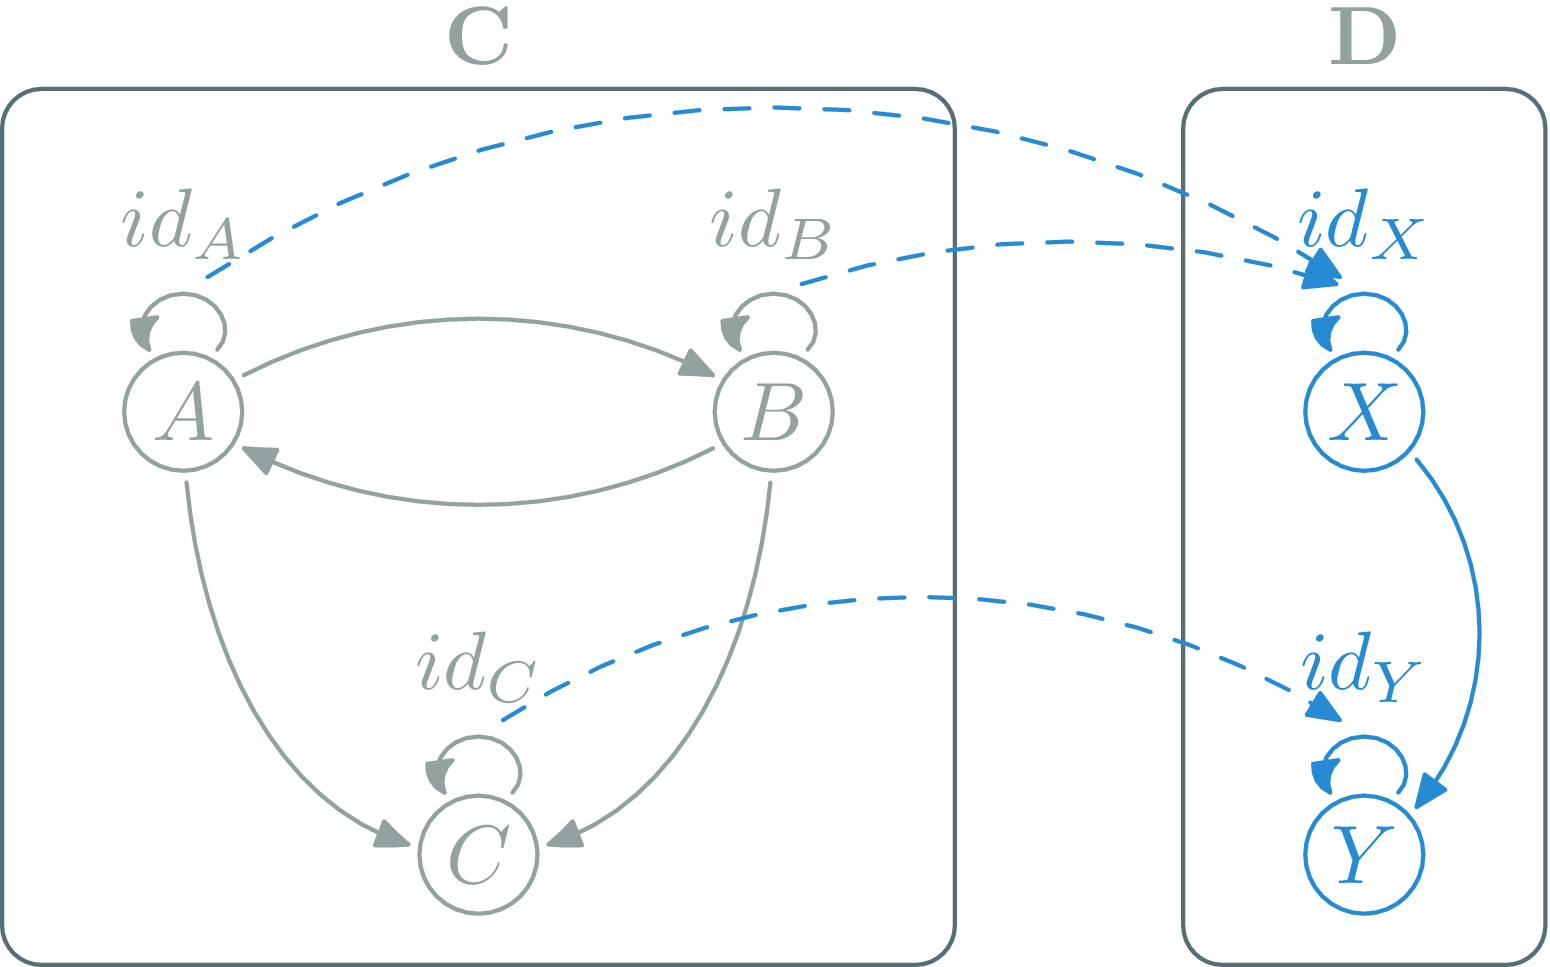
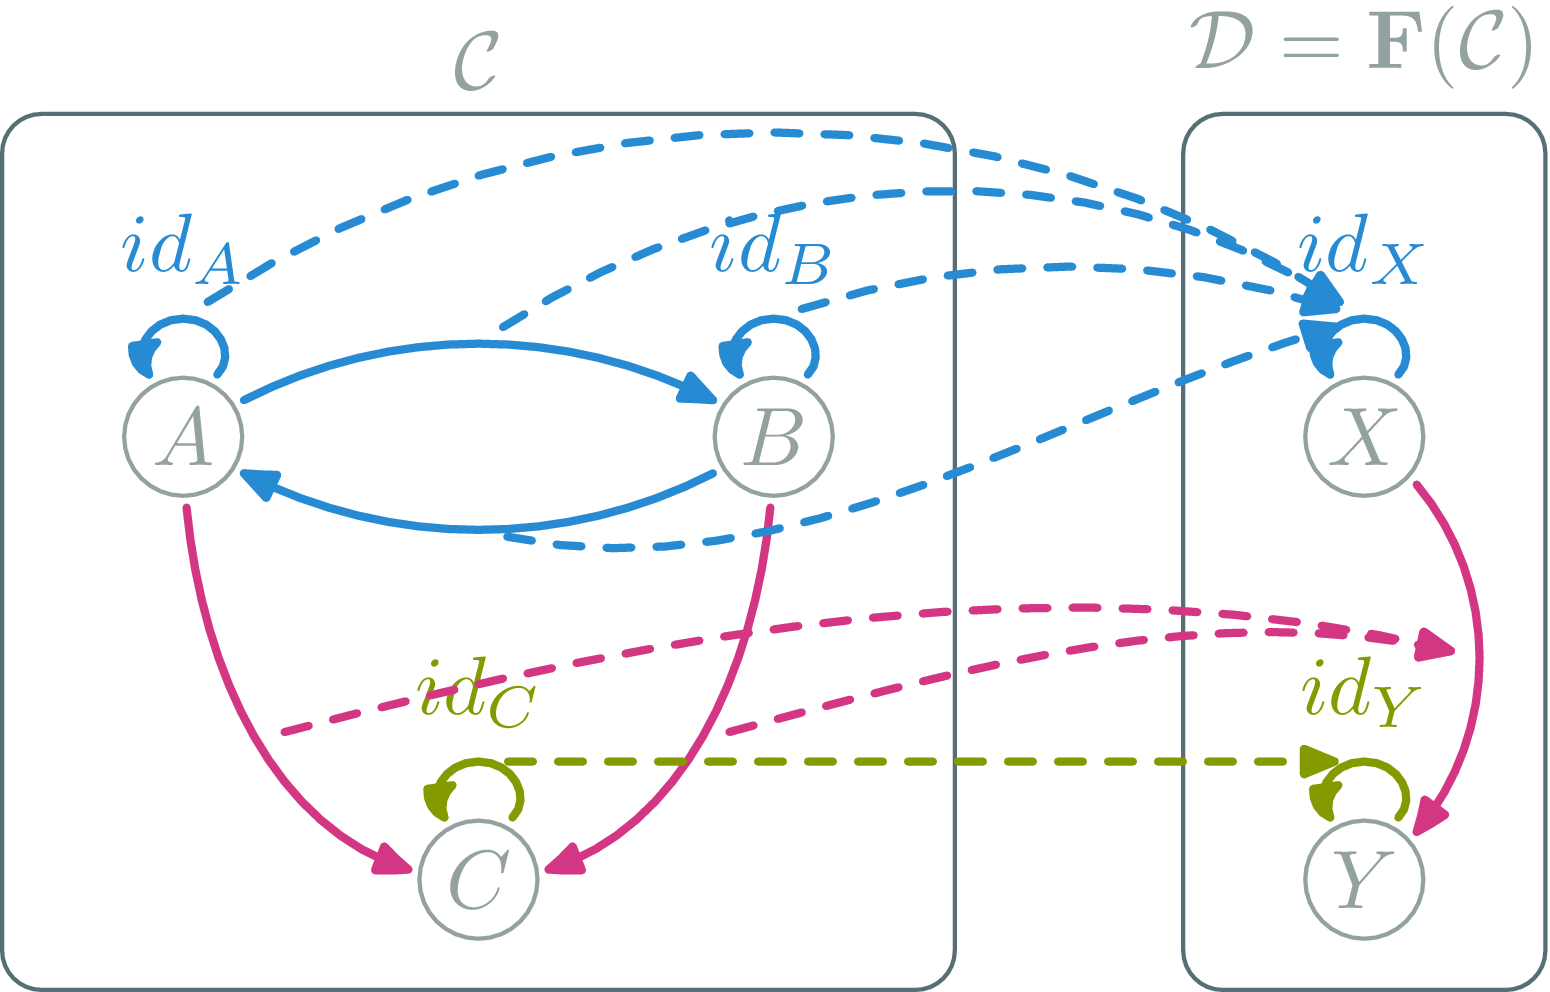
Updated the Functor images

diff --git a/categories.html b/categories.html
@@ -304,7 +304,6 @@ A <em>functor</em> \(\F\) from \(\C\) to \(\D\):</p>
 <div style="position:relative">
 <img src="img/mp/functor.png" alt="Functor" style="position:absolute;left:0;top:0"/>
 <img class="slide" src="img/mp/functor-morphism.png" alt="Functor Morphisms" style="position:absolute;left:0;top:0"/>
-<img class="slide" src="img/mp/functor-morphism2.png" alt="Functor Morphisms" style="position:absolute;left:0;top:0"/>
 <img class="slide" src="img/mp/functor-morphism-color.png" alt="Functor Morphisms" style="position:absolute;left:0;top:0"/>
 </div>
 </section>

diff --git a/categories/slide-019.html b/categories/slide-019.html
@@ -3,6 +3,5 @@
 <div style="position:relative">
 <img src="img/mp/functor.png" alt="Functor" style="position:absolute;left:0;top:0"/>
 <img class="slide" src="img/mp/functor-morphism.png" alt="Functor Morphisms" style="position:absolute;left:0;top:0"/>
-<img class="slide" src="img/mp/functor-morphism2.png" alt="Functor Morphisms" style="position:absolute;left:0;top:0"/>
 <img class="slide" src="img/mp/functor-morphism-color.png" alt="Functor Morphisms" style="position:absolute;left:0;top:0"/>
 </div>
